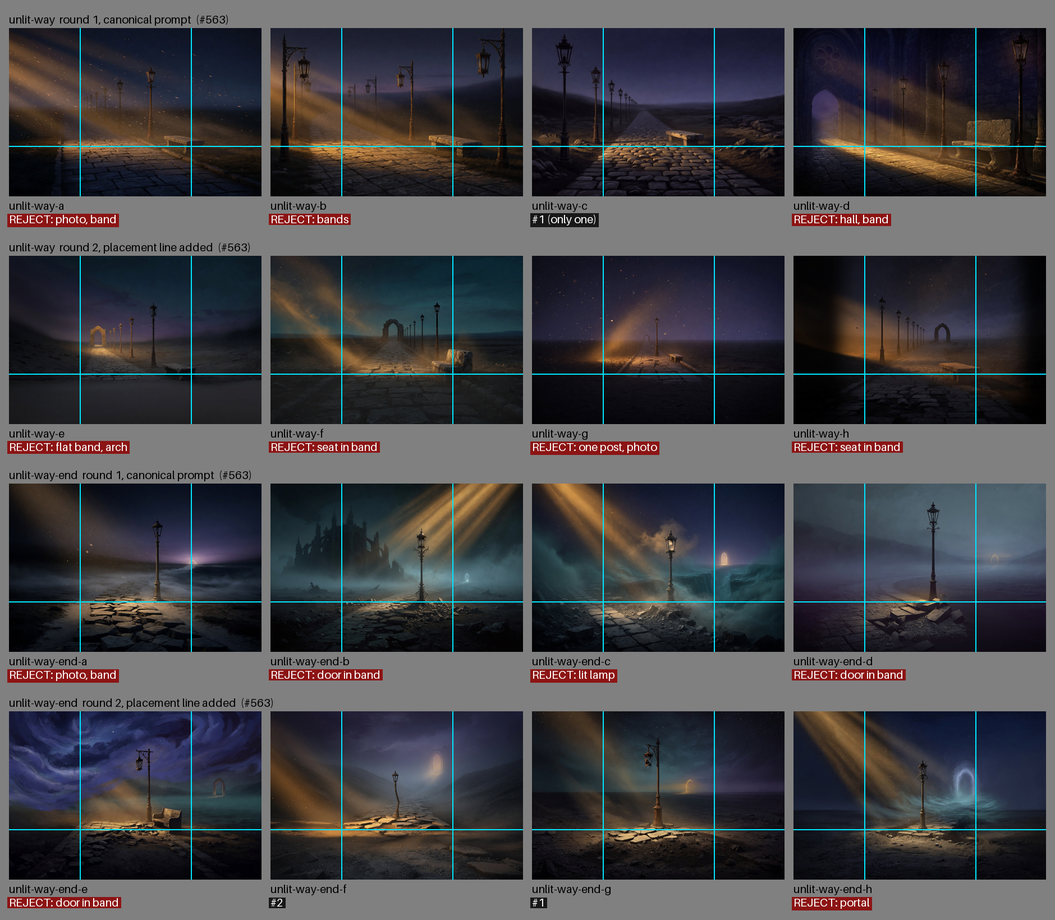
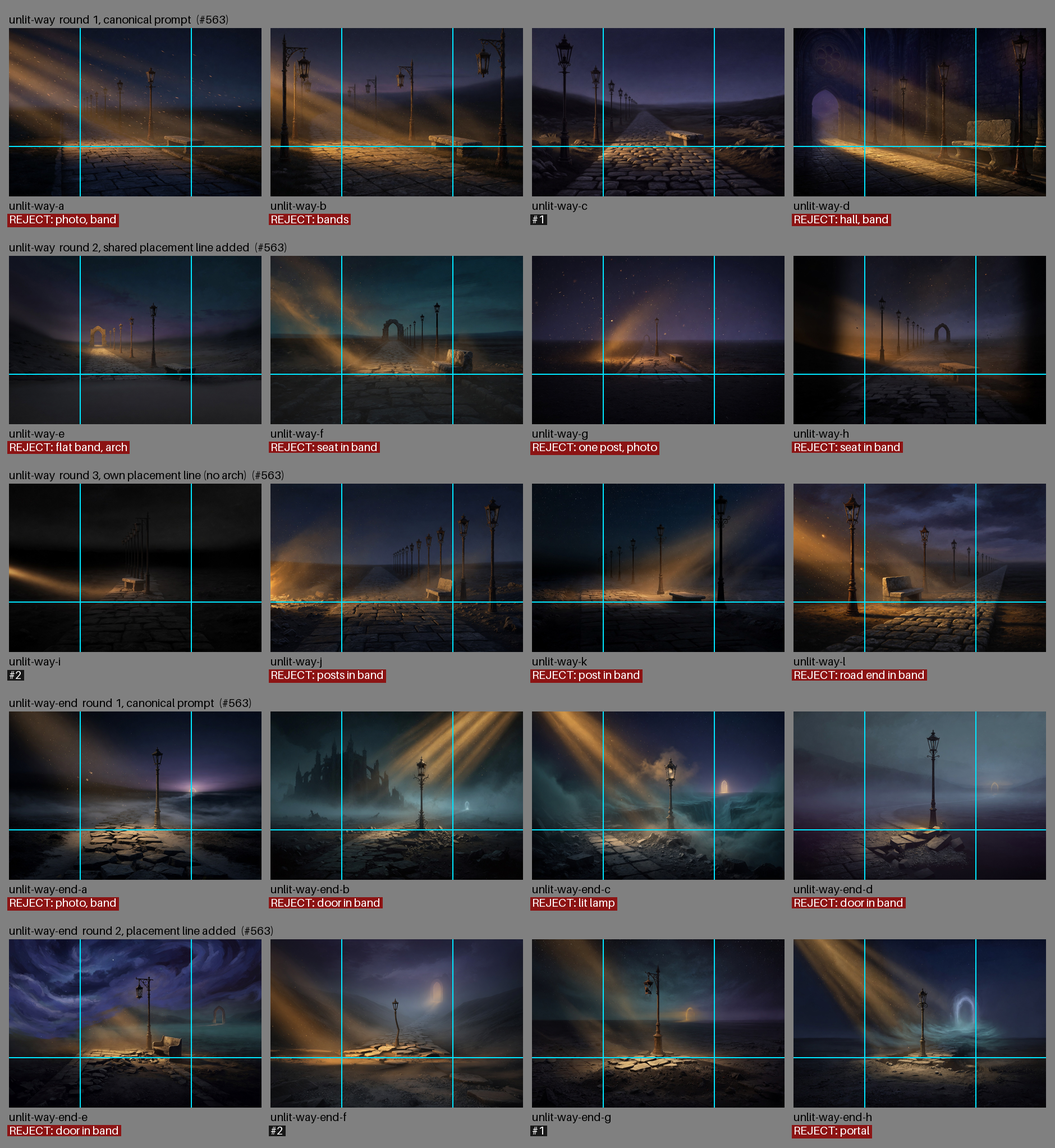
art(stagecraft): round 3 for unlit-way, with its own placement sentence
The last authorised round (#563): four more unlit-way renders. For this plate
only, the shared round-2 placement sentence is replaced by one that keeps the
subject in the central 44 percent, puts the seat at about 55 to 60 percent and
forbids any arch, door or light on the horizon. The end plate keeps the round-2
sentence. The shared sentence named "the distant arch", and every round-2
unlit-way render drew one. That arch is the door, and the door must not appear
before m5, so the two plates now carry different placement sentences. The
README records this, and each ledger row should carry its own at landing.

4 renders, 1 survivor (unlit-way-i); none drew an arch. 31 of 69 candidates
now survive, and every file has at least two.

Claude-Session: https://claude.ai/code/session_01N775uHkEnAcuFy6ZMN3DVy

diff --git a/docs/design/2026-09-29-stagecraft-art/README.md b/docs/design/2026-09-29-stagecraft-art/README.md
@@ -7,11 +7,12 @@ landing commit then copies each pick to its ledgered path, commits the
 `.import` sidecar, moves the ledger row to Shipped with the prompt that
 rendered it, and takes the stills the issues ask for.
 
-65 candidates were generated on 2026-09-29, in two rounds, and 30 survive.
+69 candidates were generated on 2026-09-29, in three rounds, and 31 survive.
 Round 1 was the canonical prompts. Round 2 was an authorised follow-up for the
-four files round 1 left short, each with one amended sentence (see Round 2).
-Each family's contact sheet shows every candidate of both rounds, keyed and
-labelled, rejects included. Only the survivors are committed, in `survivors/`.
+four files round 1 left short, each with one amended sentence. Round 3
+re-rolled `unlit-way` alone, with a placement sentence of its own (see Rounds 2
+and 3). Each family's contact sheet shows every candidate of every round, keyed
+and labelled, rejects included. Only the survivors are committed, in `survivors/`.
 Raw renders and rejects stay out of the tree.
 
 | Family | Issue | Sheet | Generated | Survivors | Ranked first |
@@ -19,11 +20,10 @@ Raw renders and rejects stay out of the tree.
 | Keeper moods | #560 | [`contact-keeper.png`](contact-keeper.png) | 16 | 11 | tender-a, offering-b, weary-c, beckon-a |
 | Hollow Lamplighter moods | #561 | [`contact-lamplighter.png`](contact-lamplighter.png) | 24 | 13 | wary-e, asking-a, recognising-b, urgent-c, grieving-b |
 | Queue chorus | #562 | [`contact-queue.png`](contact-queue.png) | 9 | 3 | queue-chorus-h |
-| Unlit Way plates | #563 | [`contact-plates.png`](contact-plates.png) | 16 | 3 | unlit-way-c, unlit-way-end-g |
+| Unlit Way plates | #563 | [`contact-plates.png`](contact-plates.png) | 20 | 4 | unlit-way-c, unlit-way-end-g |
 
-**Remaining gap.** `unlit-way` still has one survivor (`c`, from round 1).
-Every other file has at least two. Finding 2 explains why, and the last section
-suggests a next step. It was not run.
+**No gaps remain.** Every file has at least two survivors. Round 3 was the last
+round.
 
 ## Binding
 
@@ -63,8 +63,8 @@ suggests a next step. It was not run.
   at run time), one image per call, three calls at a time. Each request reads
   the reference at its absolute path, then carries the canonical prompt
   verbatim from the issue (the issues assemble the ledger's clauses), the exact
-  canvas and the output path. Round 1 made 49 calls and round 2 made 16. All 65
-  returned the right canvas on the first attempt; no retry was needed.
+  canvas and the output path. Round 1 made 49 calls, round 2 16 and round 3 4.
+  All 69 returned the right canvas on the first attempt; no retry was needed.
 - **References.** For the portraits, the files the ledger names:
   `meta/keeper.png`, `enemies/eternalKeeper.png` for beckon, and
   `meta/hollow-lamplighter.png`. For the Queue, `meta/keeper.png` and
@@ -111,7 +111,7 @@ dark** is opaque near-black in the 8 px canvas frame (< 400), with the
 bottom-edge share in brackets; "not graded" marks the Queue's bottom edge.
 **Corners** are the four corner alphas; 0 means all four are clear. **≥240** is
 the share of visible pixels at alpha ≥ 240 (≥ 90%). **Verdict** ranks the
-survivors of each file across both rounds. James picks.
+survivors of each file across all rounds. James picks.
 
 ## Round 2 — the authorised follow-up
 
@@ -127,10 +127,11 @@ otherwise unchanged, and the ledger's style blocks stay verbatim.
 | `unlit-way`, `unlit-way-end` | "For this two-shot plate the subject (the road, the seat, the broken paving, the last lamp post and the distant arch) sits inside the central 44 percent of the width; the outer 28 percent on each side holds only ground, ash and sky." | After the TWO-SHOT FRAME clause. |
 
 **The placement sentence is an implementation amendment to the ledger prompt
-for two-shot plates.** The ledger row for each plate should carry it at
-landing, because #559 asks that the Shipped row record the prompt that rendered
-the pick. Finding 2 suggests splitting its subject list per plate first. The
-same applies to the wary sentence if a round-2 wary file is picked.
+for two-shot plates.** It now stands for `unlit-way-end` only; Round 3 gave
+`unlit-way` its own. At landing, each plate's ledger row should carry the
+sentence that rendered the pick, because #559 asks that the Shipped row record
+the prompt that rendered it. The same applies to the wary sentence if a round-2
+wary file is picked.
 
 The Queue brief cuts the figures at the canvas foot, so the bottom edge's
 near-black is reported but not graded for this file (`--cut-bottom`). The other
@@ -139,6 +140,31 @@ fails the renders that run off a side edge.
 
 Round 2: 16 renders, 6 survivors (`wary-e`, `wary-f`, `queue-chorus-g`,
 `queue-chorus-h`, `unlit-way-end-f`, `unlit-way-end-g`).
+
+## Round 3 — `unlit-way`'s own placement sentence
+
+The last round, authorised the same way: four more `unlit-way` renders (`i` to
+`l`). For this plate only, the round-2 sentence was replaced by:
+
+> For this two-shot plate the subject sits inside the central 44 percent of the
+> width: the stone road receding into plain darkness, the row of dead iron lamp
+> posts along its verge, and one flat roadside stone composed as an empty seat
+> at about 55 to 60 percent of the width. The outer 28 percent on each side
+> holds only ground, ash and sky. There is NO arch, NO door, NO light and NO
+> dawn on the horizon: the road runs out into darkness.
+
+**The two plates now carry different placement sentences, on purpose.** The
+round-2 sentence named "the distant arch" as part of the subject, and all four
+round-2 `unlit-way` renders drew one. That arch is the door, and the door must
+not appear before m5. Meetings m1 to m4 stand on `unlit-way`; only m5 reaches
+the end of the road. So the first plate's sentence forbids the arch outright
+and places the seat, while `unlit-way-end` keeps the round-2 sentence and its
+arch. Each plate's ledger row should carry its own sentence at landing.
+
+Round 3: 4 renders, 1 survivor (`i`). None drew an arch, a door or light on the
+horizon. `j` and `k` still stood a lamp post behind the Lamplighter's seat. The
+seat landed at 35–72% of the width across the four, and on its 55–60% mark
+only in `k`.
 
 ## Keeper — #560
 
@@ -302,8 +328,9 @@ paragraph.
 ## Unlit Way plates — #563
 
 1536×1024, full-bleed, not keyed. Both files were re-rolled in round 2 (`e` to
-`h`). One of eight survives for `unlit-way` and two of eight for
-`unlit-way-end`. Measured door-glow spans on the end plate, as a share of the
+`h`), and `unlit-way` again in round 3 (`i` to `l`). Two of 12 survive for
+`unlit-way` and two of eight for `unlit-way-end`. Measured door-glow spans on
+the end plate, as a share of the
 width: round 1 `a` 71–74%, `b` 77–79%, `c` 75–77%, `d` 78–81%; round 2 `e`
 80–85%, `f` 61–68%, `g` 61–63%, `h` 61–72% (a ring, not an arch).
 
@@ -317,6 +344,10 @@ width: round 1 `a` 71–74%, `b` 77–79%, `c` 75–77%, `d` 78–81%; round 2 `
 | `unlit-way-f.png` | 1536×1024 | pass | reject | Round 2. The seat spans 64-80% of the width, into the right band, and a ruined arch stands at the road's end. |
 | `unlit-way-g.png` | 1536×1024 | pass | reject | Round 2. One lamp post stands in the road instead of a row along the verge, the finish is photographic (bokeh on the ash), and an arch stands at the road's end. |
 | `unlit-way-h.png` | 1536×1024 | pass | reject | Round 2. The nearest miss: a row of dead lamps along the verge inside the centre band, amber from low left. But the seat reaches 75% of the width, into the right band; the finish is photographic, with black vignettes down both sides; and a ruined arch stands at the road's end. |
+| [`unlit-way-i.png`](survivors/unlit-way-i.png) | 1536×1024 | pass | **#2** | Round 3. Both bands hold only ground, ash and the amber shaft from low left; the road runs out into plain darkness at the centre, with no arch or horizon light, and the row of dead posts stands on its verge at 45-56%. Dark (mean luminance 15.4, as dark as the shipped opening-hearth.png at 17.7). The finish is photographic, and the seat sits on the road at 45-54% rather than roadside at 55-60%. |
+| `unlit-way-j.png` | 1536×1024 | pass | reject | Round 3. The two nearest lamp posts stand in the right band (75-78% and 85-91% of the width), behind the Lamplighter's seat, and a fire burns inside the left band instead of far behind the viewer. |
+| `unlit-way-k.png` | 1536×1024 | pass | reject | Round 3. The nearest lamp post stands in the right band (71-78%), behind the Lamplighter's seat, and the amber light comes from the upper right rather than low left. |
+| `unlit-way-l.png` | 1536×1024 | pass | reject | Round 3. The best finish of the round, painterly like c. But the road's vanishing end and the far row of posts sit at 68-85% of the width, behind the Lamplighter's seat; the nearest post, the tallest thing in the frame, stands in the left band (20-27%); and the seat is at 35-51%, left of centre. |
 | `unlit-way-end-a.png` | 1536×1024 | pass | reject | Photographic; the door arch straddles the 72% line; paving fills the bottom 30%. |
 | `unlit-way-end-b.png` | 1536×1024 | pass | reject | Painterly, but the door arch sits at about 78% of the width (right band), and a ruined cathedral spans 9-52%. |
 | `unlit-way-end-c.png` | 1536×1024 | pass | reject | The last lamp reads lit (bright glowing panes), and the door arch sits at 75-77%. |
@@ -350,6 +381,8 @@ Save the result as a PNG file at <scratch>/stagecraft-raw/unlit-way-<x>.png
   never detailed). Emptier and colder than the first plate."
 - Round 2 (`e` to `h` of both files) appends the placement sentence in Round 2
   to the TWO-SHOT FRAME clause.
+- Round 3 (`unlit-way-i` to `unlit-way-l`) appends `unlit-way`'s own sentence,
+  quoted in Round 3, in its place.
 
 </details>
 
@@ -361,21 +394,19 @@ Save the result as a PNG file at <scratch>/stagecraft-raw/unlit-way-<x>.png
    round-2 sentence, all four wary renders kept it (17.0–21.2%, against the
    reference's 20.2%). Round 2's wary failures were about the prop instead:
    `g`'s lantern became a flat slab, and `h`'s sits on top of the pole.
-2. **The placement sentence fixed the end plate, not the first plate.** In round
-   1 every `unlit-way-end` render put the door at 71–81% of the width, behind
-   the Lamplighter's seat at 0.80. In round 2, `f` and `g` put it at 61–68%, and
-   both survive. On `unlit-way` the lamp posts moved inside the centre band, but
-   two problems remain:
-   - The seat still drifts into the right band: `e` 74%, `f` 64–80%, `h` 75%.
+2. **The first plate needed three rounds.** In round 1 every `unlit-way-end`
+   render put the door at 71–81% of the width, behind the Lamplighter's seat at
+   0.80. Round 2's shared placement sentence fixed that: `f` and `g` put it at
+   61–68%, and both survive. On `unlit-way` the same sentence had two side
+   effects:
+   - The seat still drifted into the right band: `e` 74%, `f` 64–80%, `h` 75%.
    - Every round-2 render drew an arch at the road's end, against none in
-     round 1. The sentence's subject list is shared by both plates and names
-     "the distant arch", which is the end plate's door; on m1–m4 it anticipates
-     m5.
+     round 1, because the shared list names "the distant arch".
 
-   Suggested split before landing:
-   - `unlit-way`: "(the road, the lamp posts and the seat)".
-   - `unlit-way-end`: "(the broken paving, the last lamp post and the distant
-     arch)".
+   Round 3's own sentence removed the arch from all four renders, but only `i`
+   kept both bands clear. Placement by percentage is approximate with this
+   model: the seat landed on its mark once in four. The stills at landing are
+   the real check.
 3. **The Queue's side edges were the real test.** Round 1 kept two of five
    inside both side edges (`b`, `e`); round 2, with the inside-edges sentence,
    kept three of four (`f`, `g`, `h`). For the landing: `actors.json` gives the
@@ -394,9 +425,3 @@ Save the result as a PNG file at <scratch>/stagecraft-raw/unlit-way-<x>.png
    figure (IoU 0.92 to 0.99; `d` grew and is rejected). Landing one changes
    little on screen, because the stage's fallback already shows the shipped
    figure for this mood.
-
-## Suggested next step (not run)
-
-- `unlit-way`: four more, with the per-plate subject list from Finding 2 and a
-  seat placement such as "the seat sits between 55 and 68 percent of the
-  width".
